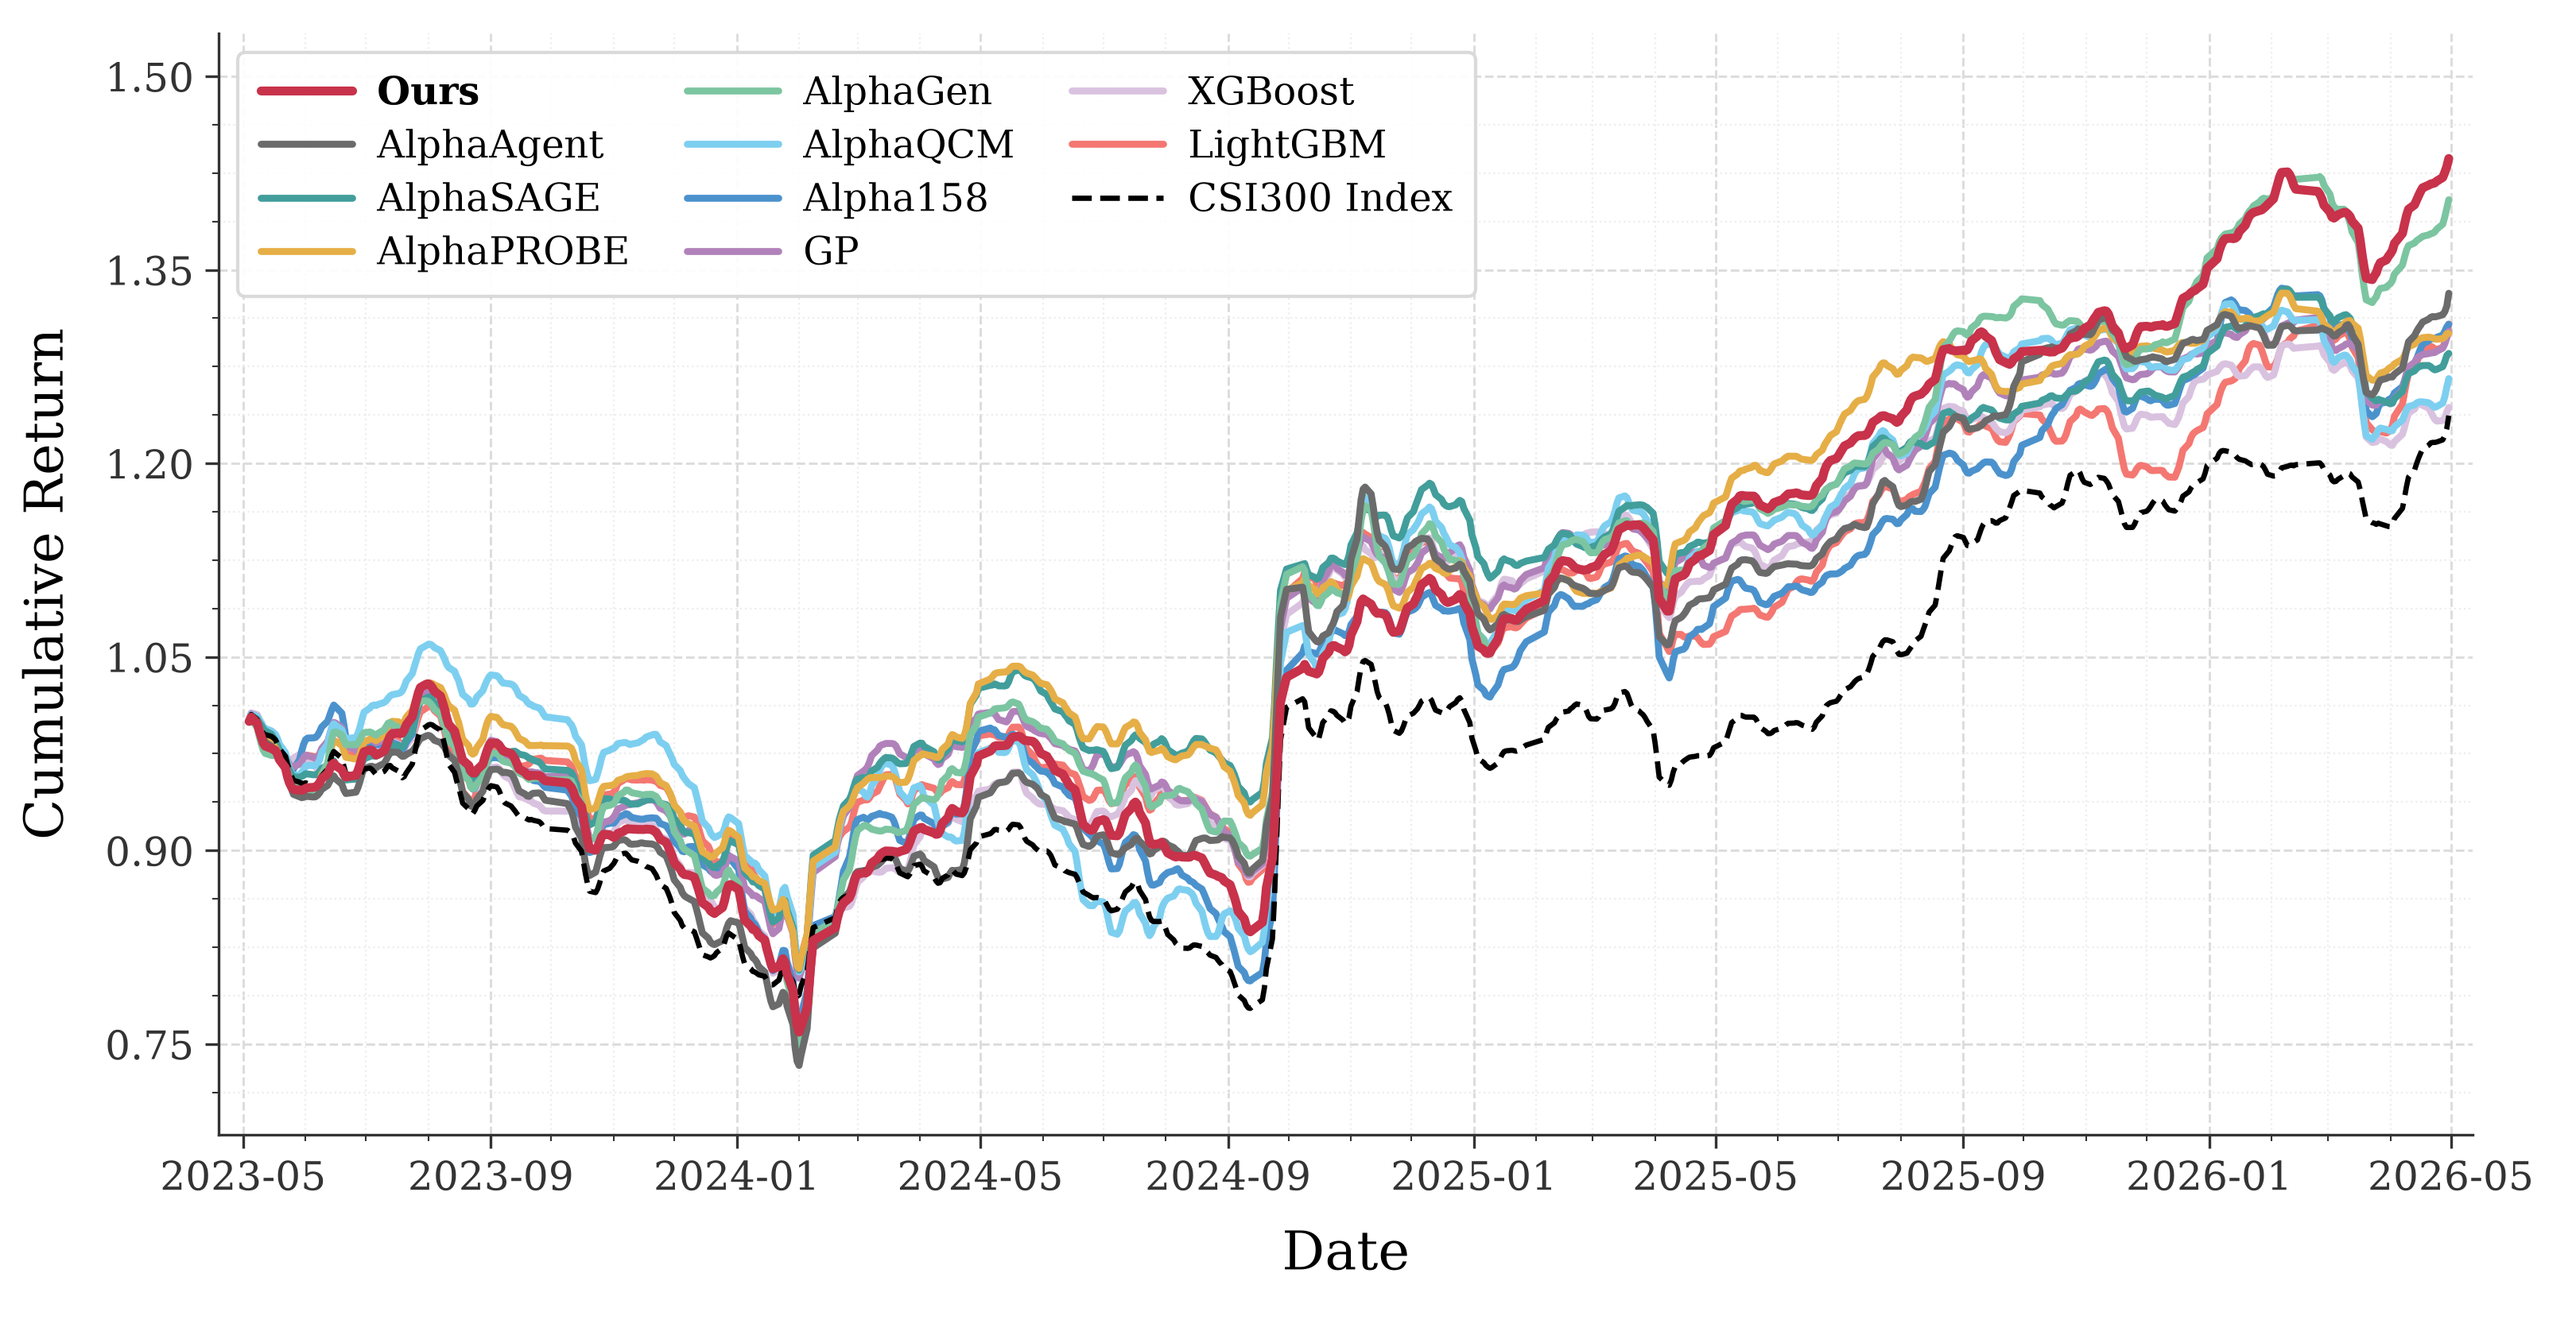
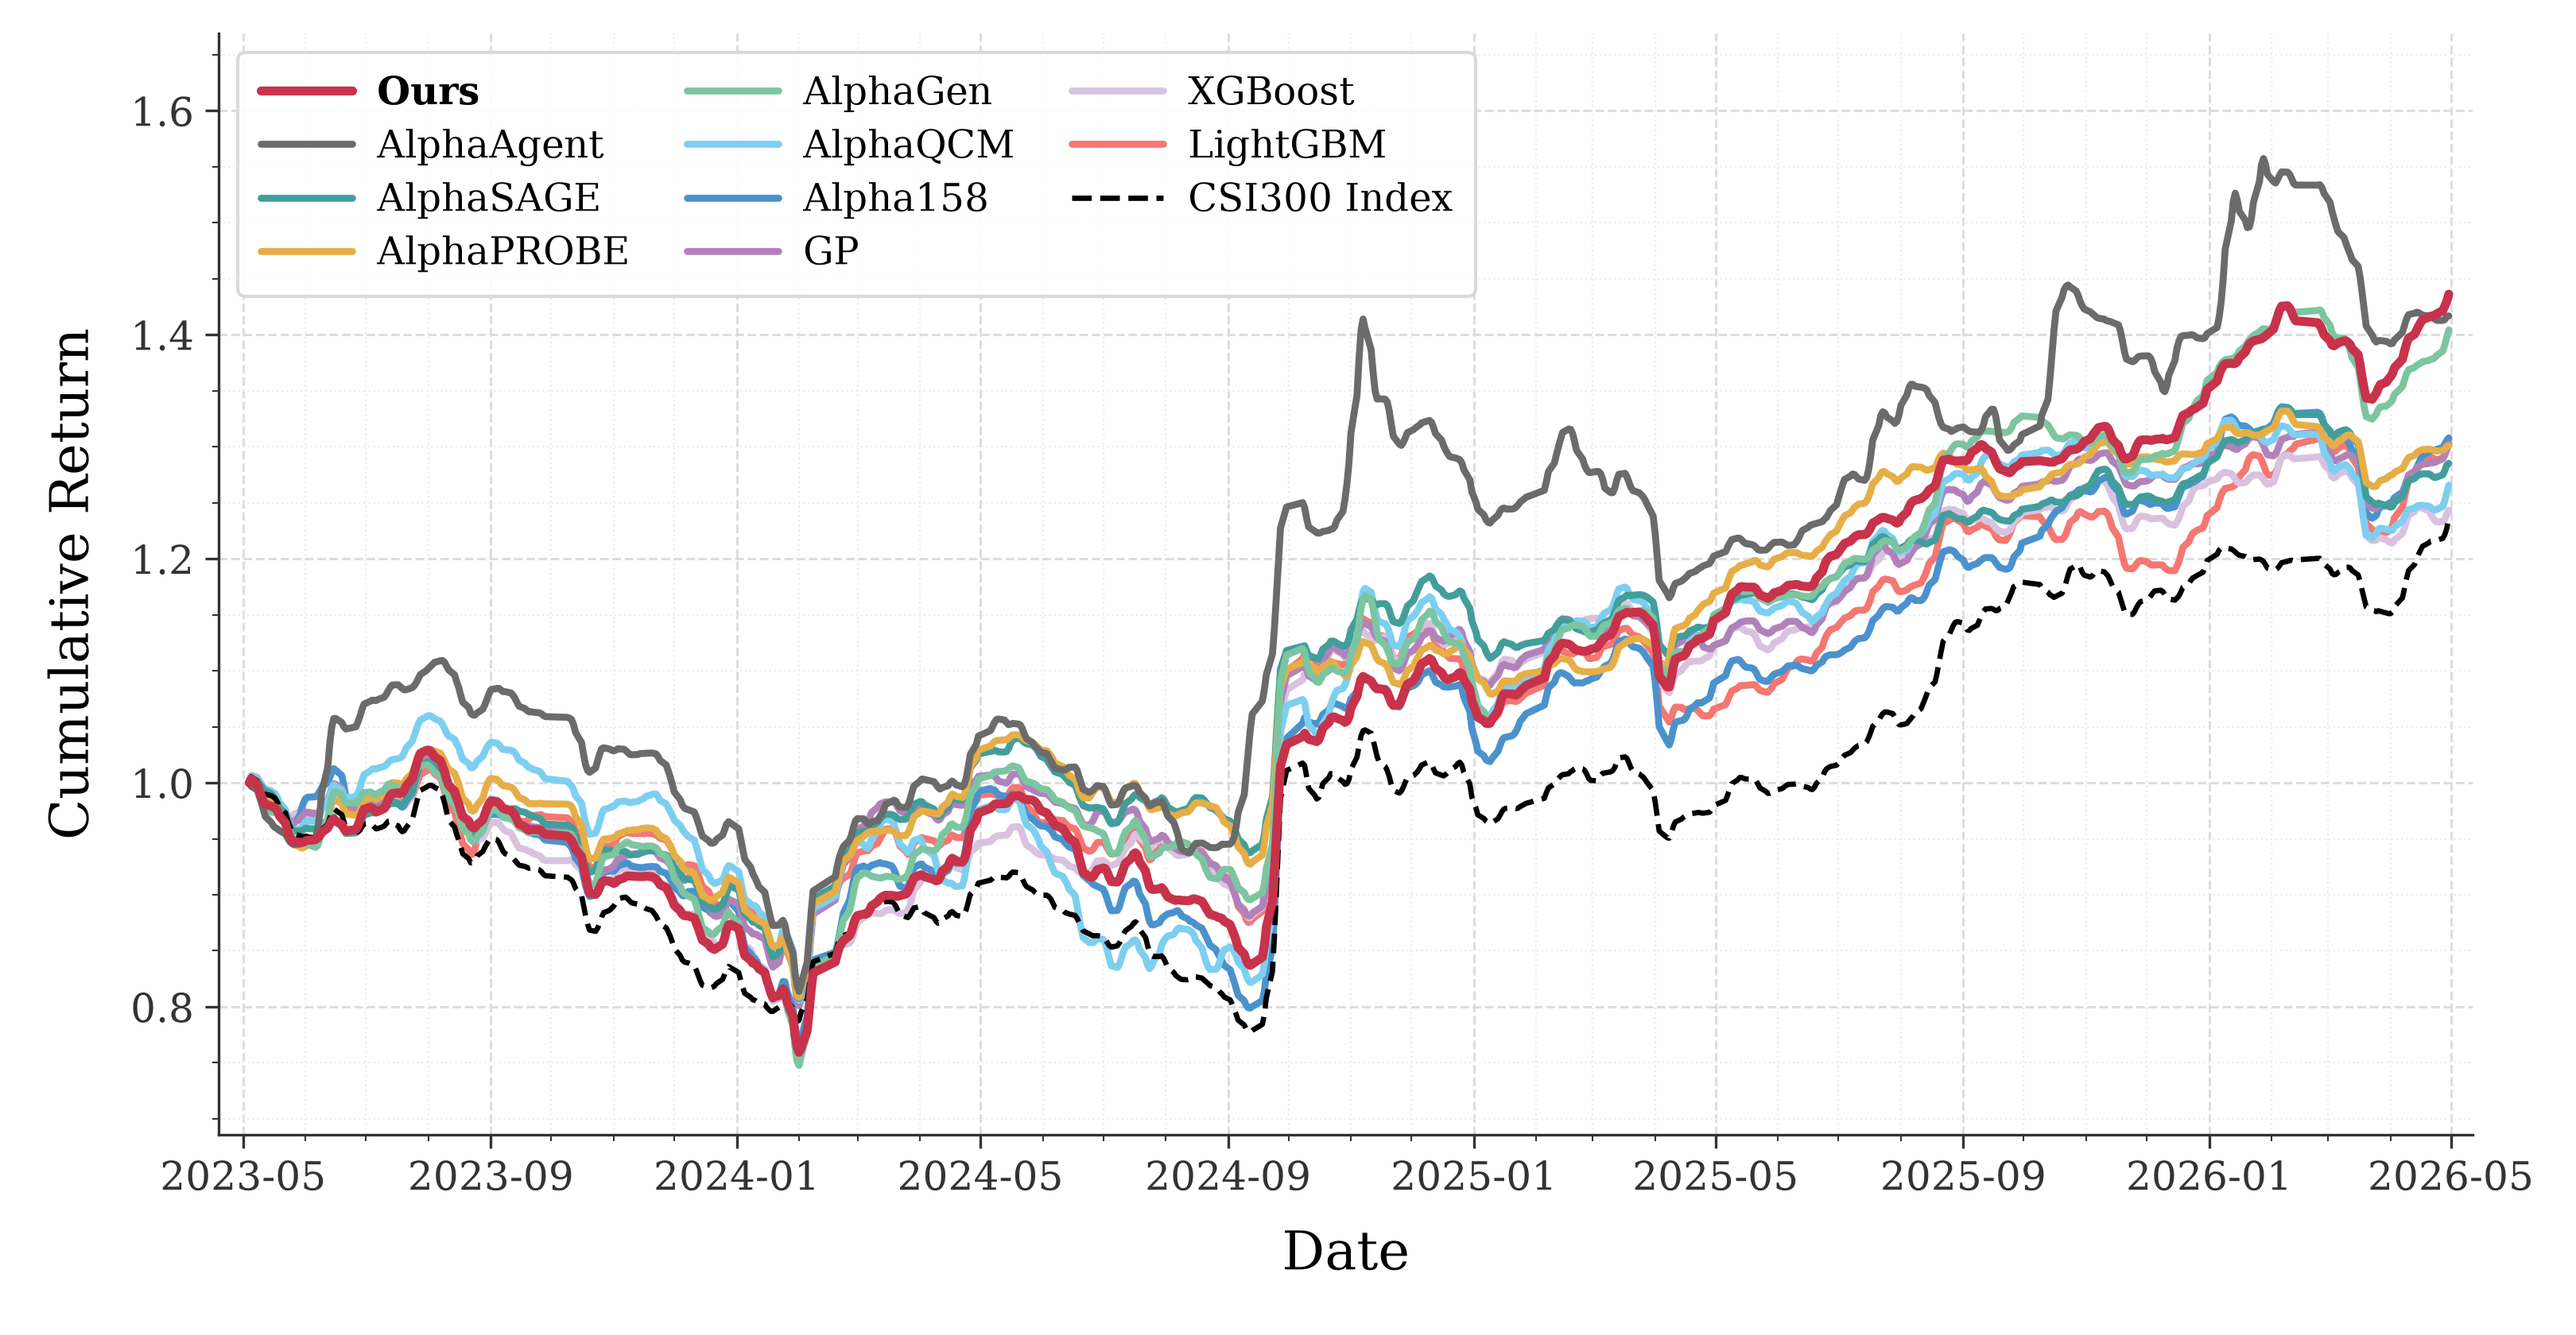
Update

diff --git a/plot_profit_curve.py b/plot_profit_curve.py
@@ -28,7 +28,7 @@ RUNS: dict = {
         "AlphaGen": {"path": "data/ppo_logs/pool_20/ppo_csi300_20_0-20260905132532/ppo_csi300_20_0_20260905132532/ret_s.npy", "data_start_date": "2023-05-01"},
         "Ours": {"path": "data/cf_logs/20261024_020903_733059_csi300_0_gd-mobile-deepseek-v4.1-flash-1017/ret_s.npy", "data_start_date": "2023-05-01"},
 
-        "AlphaAgent": "data/logs/alphaagent/csi300/validation_combiners_20261102/rankic_top26_441d/ret_s.npy",
+        "AlphaAgent": "data/logs/alphaagent/csi300/validation_combiners_20261102/rankicir_top14_1260d_volblend/ret_s.npy",
         "CSI300 Index": {
             "path":            "data/index_real_logs/pool_all/real_csi300/ret_s.npy",
             "data_start_date": "2023-05-01",   # first entry in the .npy file
